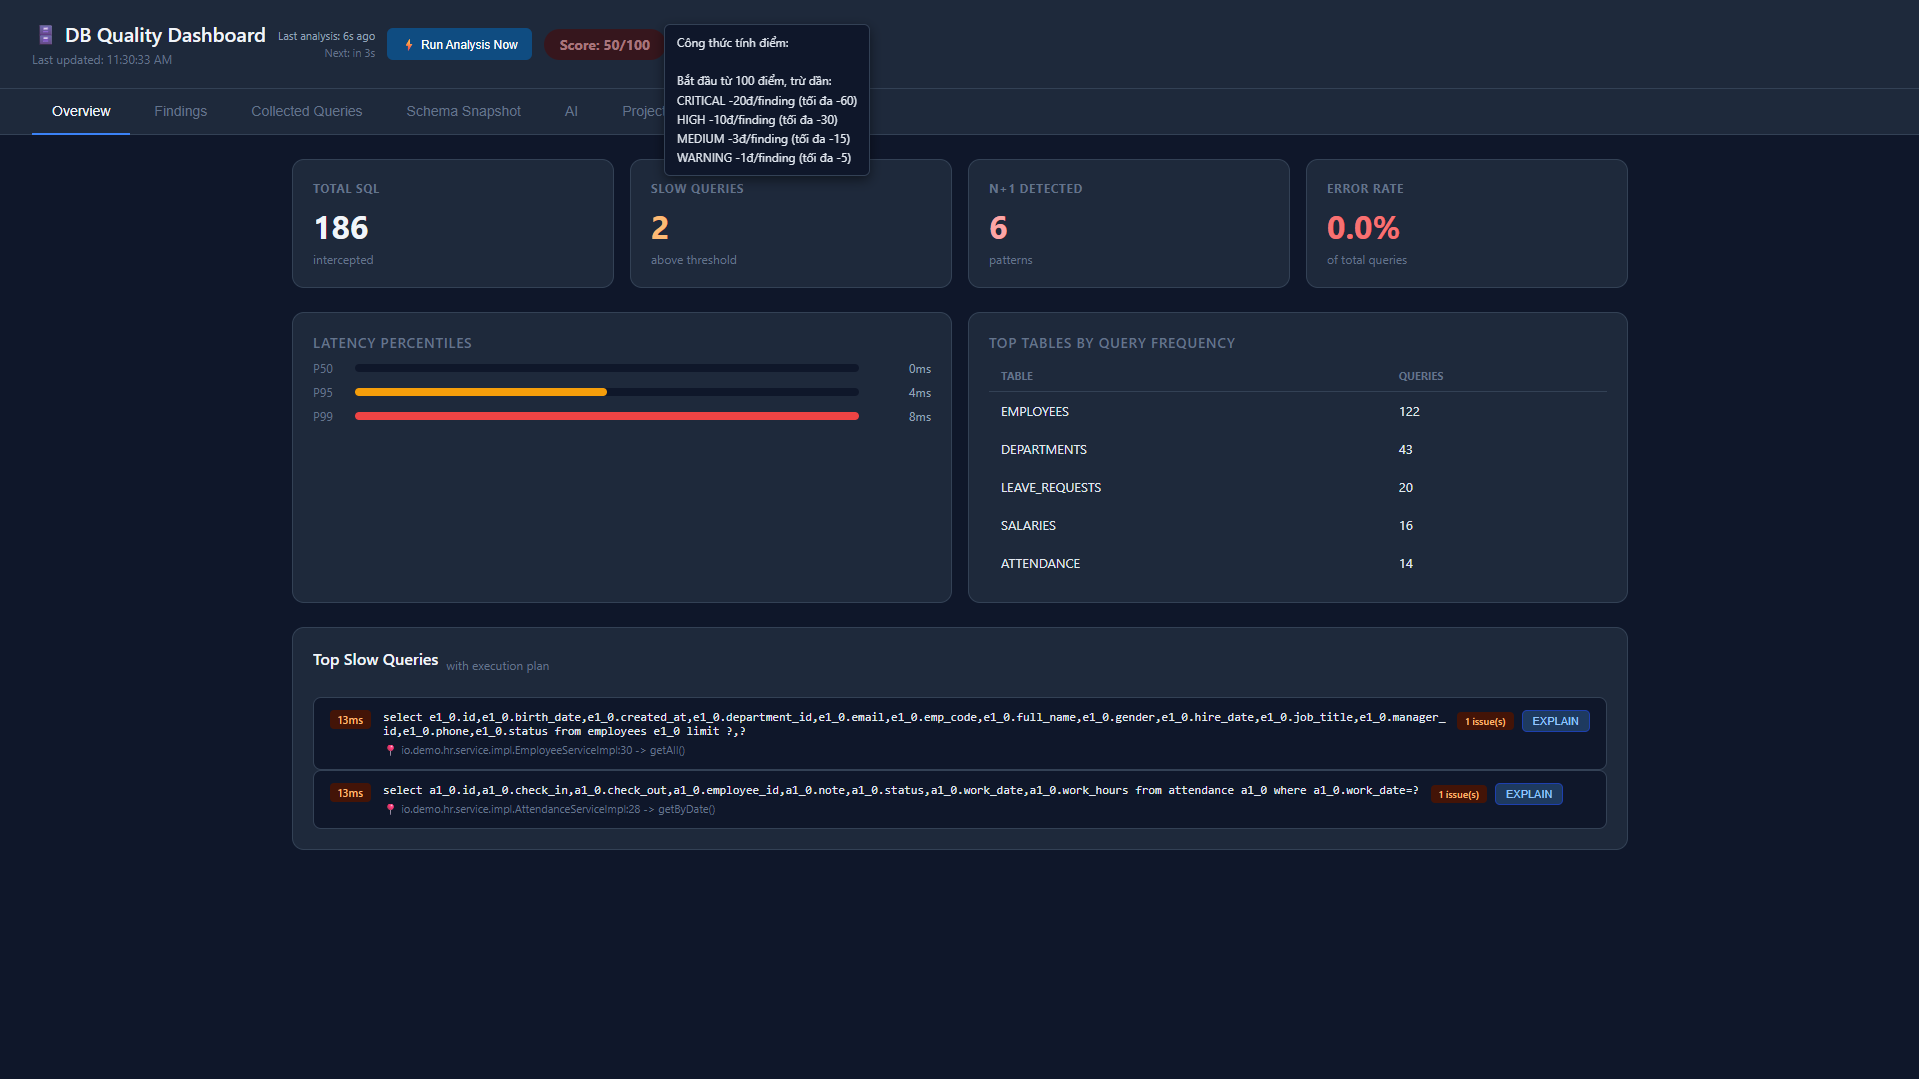
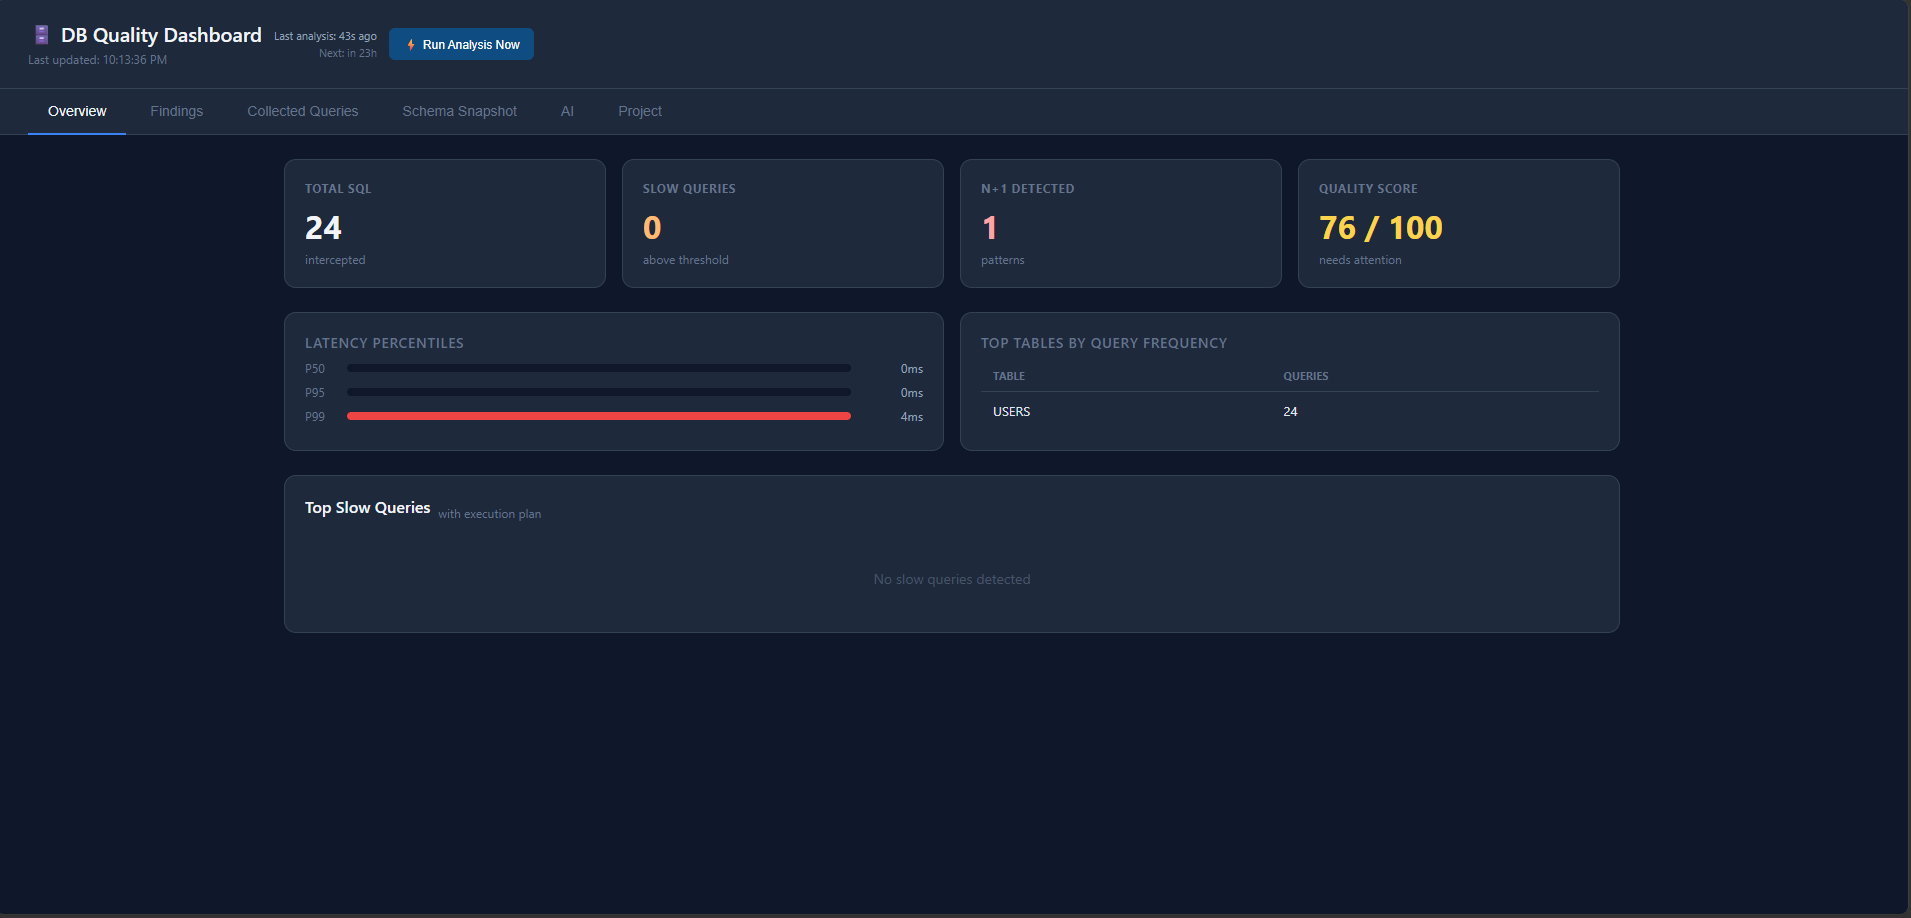
update UI + README (#107)

diff --git a/src/main/resources/dashboard.js b/src/main/resources/dashboard.js
@@ -298,16 +298,21 @@ function copyAIContext() {
 }
 
 function updateScore(score) {
-  const badge = document.getElementById('scoreBadge');
-  badge.textContent = 'Score: ' + score + '/100';
-  badge.classList.remove('pulse');
+  const valueEl = document.getElementById('scoreValue');
+  const subEl = document.getElementById('scoreSub');
+  if (!valueEl) return;
+
+  valueEl.textContent = score + ' / 100';
+
   if (score >= 80) {
-    badge.style.background = '#14532d'; badge.style.color = '#86efac';
+    valueEl.style.color = '#86efac';
+    subEl.textContent = 'good';
   } else if (score >= 60) {
-    badge.style.background = '#422006'; badge.style.color = '#fcd34d';
+    valueEl.style.color = '#fcd34d';
+    subEl.textContent = 'needs attention';
   } else {
-    badge.style.background = '#450a0a'; badge.style.color = '#fca5a5';
-    badge.classList.add('pulse');
+    valueEl.style.color = '#fca5a5';
+    subEl.textContent = 'critical issues';
   }
 }
 
@@ -315,7 +320,6 @@ function updateMetrics(m) {
   document.getElementById('totalSQL').textContent  = m.totalSQLIntercepted ?? 0;
   document.getElementById('slowCount').textContent = m.slowQueryCount ?? 0;
   document.getElementById('nPlusOne').textContent  = m.nPlusOneDetected ?? 0;
-  document.getElementById('errorRate').textContent = (m.errorRate ?? 0).toFixed(1) + '%';
 
   const max = Math.max(m.p99Latency ?? 1, 1);
   document.getElementById('latencyBars').innerHTML = `
@@ -681,7 +685,11 @@ function prevPage() { currentPage--; renderPage(); }
 
 loadData();
 loadAIContext();
+loadSchemaSnapshot();
 setInterval(() => {
     loadData();
     loadAIContext();
+    if (document.getElementById('tab-queries').style.display !== 'none') {
+        loadCollectedQueries();
+    }
 }, 5000);

diff --git a/src/main/resources/dashboard.html b/src/main/resources/dashboard.html
@@ -27,12 +27,8 @@
                    transition: background 0.2s"
             onmouseover="this.style.background='#0d3d6a'"
             onmouseout="this.style.background='#0f4c81'">
-      ⚡ Run Analysis Now
+      Run Analysis Now
     </button>
-    <div id="scoreBadge" class="score-badge"
-         style="cursor:help"
-         onmouseenter="showChartTip(event,'Công thức tính điểm:\n\nBắt đầu từ 100 điểm, trừ dần:\n  CRITICAL  -20đ/finding  (tối đa -60)\n  HIGH      -10đ/finding  (tối đa -30)\n  MEDIUM     -3đ/finding  (tối đa -15)\n  WARNING    -1đ/finding  (tối đa  -5)')"
-         onmouseleave="hideChartTip()">--</div>
   </div>
 </header>
 
@@ -66,10 +62,12 @@
         <div class="value" id="nPlusOne" style="color:#fca5a5">--</div>
         <div class="sub">patterns</div>
       </div>
-      <div class="card">
-        <h3>Error Rate</h3>
-        <div class="value" id="errorRate" style="color:#f87171">--</div>
-        <div class="sub">of total queries</div>
+      <div class="card" id="scoreCard" style="cursor:help"
+           onmouseenter="showChartTip(event,'Công thức tính điểm:\n\nBắt đầu từ 100 điểm, trừ dần:\n  CRITICAL  -20đ/finding  (tối đa -60)\n  HIGH      -10đ/finding  (tối đa -30)\n  MEDIUM     -3đ/finding  (tối đa -15)\n  WARNING    -1đ/finding  (tối đa  -5)')"
+           onmouseleave="hideChartTip()">
+        <h3>Quality Score</h3>
+        <div class="value" id="scoreValue">--</div>
+        <div class="sub" id="scoreSub">overall</div>
       </div>
     </div>
 
